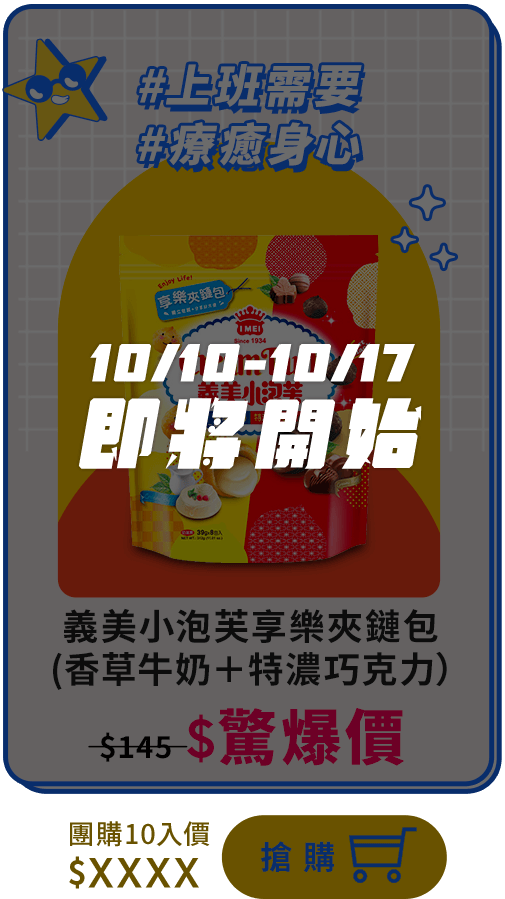
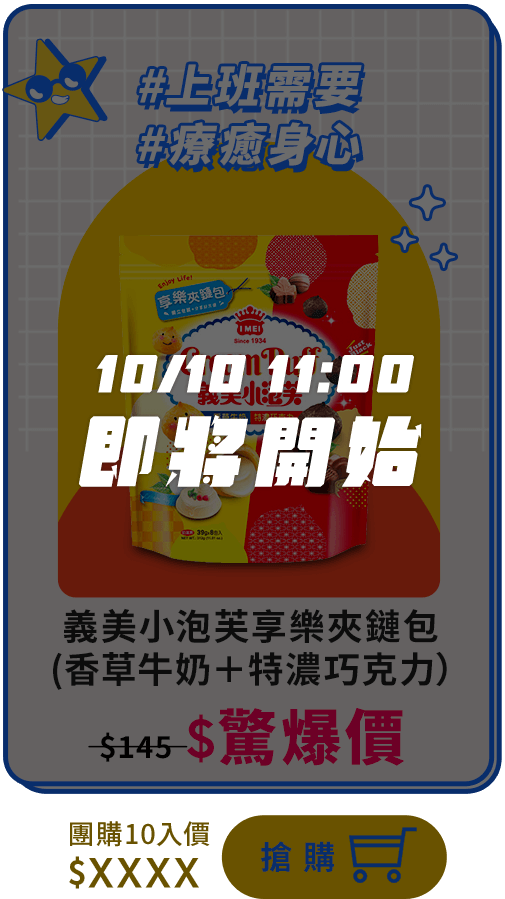
g
g

Changed region(s): [[0.1485, 0.3737, 0.8317, 0.5606]]

diff --git a/2022_funnow/index.html b/2022_funnow/index.html
@@ -26,7 +26,7 @@
   <!-- Main Stylesheet -->
   <link rel="stylesheet" href="js/flip/flip.min.css">
   <link href="https://unpkg.com/aos@2.3.1/dist/aos.css" rel="stylesheet">
-  <link href="css/style.css" rel="stylesheet">
+  <link href="css/style0930.css" rel="stylesheet">
   
 
 </head>
@@ -262,7 +262,7 @@
       </div>
       <div class="col-lg-3 col-6 mb-4 mb-lg-0 px-1 hover-link">
         <a  target="_blank" title="【HARIO】V60 無漂白濾紙100張 團購10入XXX">
-          <img class="w-100" src="images/item07a.png" alt="【HARIO】V60 無漂白濾紙100張 團購10入XXX">    
+          <img class="w-100" src="images/item07a_0930.png" alt="【HARIO】V60 無漂白濾紙100張 團購10入XXX">    
         </a>
       </div>
       <div class="col-lg-3 col-6 mb-4 mb-lg-0 px-1 hover-link">
@@ -456,7 +456,7 @@ for (var key in locale) {
 // '2018-01-15T10:00:00+01:00'  to count down to the 15th of January 2018 at 10 o'clock in timezone GMT+1
 
 // create the countdown counter
-var counter = Tick.count.down('2022-10-01T00:00:00+01:00');
+var counter = Tick.count.down('2022-10-09T23:59:59');
 
 counter.onupdate = function(value) {
   tick.value = value;

diff --git a/2022_funnow/css/style0930.css b/2022_funnow/css/style0930.css
@@ -910,7 +910,7 @@ width: 266px;
 .tick-label {
    color:#f1c600 !important; 
 }
-
+.tick-flip-card{font-family: 'Anton', sans-serif;}
 .tick-flip-panel {
    color: rgb(18, 53, 181) !important; 
 }
